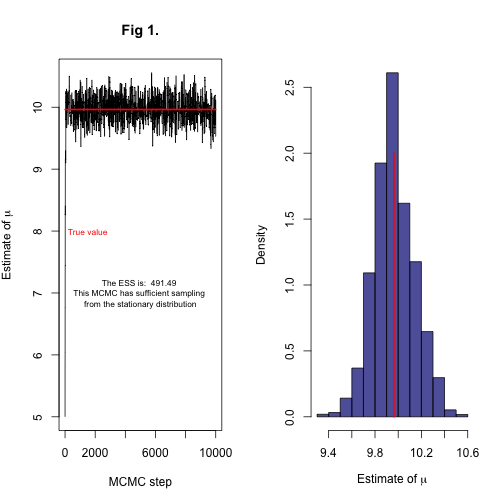
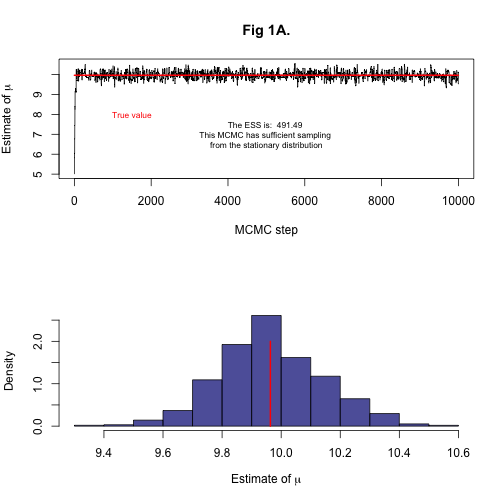
update readme

diff --git a/Readme.md b/Readme.md
@@ -137,10 +137,9 @@ Plot some diagnostics of *Example 1*
 
 ```r
 rem_burnin <- 100:nrow(ch1)
-par(mfrow = c(2, 2))
-
+par(mfrow = c(2, 1))
 plot(ch1[, 1], type = "l", xlab = "MCMC step", ylab = expression(paste("Estimate of ", 
-    mu)), main = "Fig 1.")
+    mu)), main = "Fig 1A.")
 lines(x = 1:10000, y = rep(mean(x), 10000), col = "red", lwd = 2)
 text(5000, 7, labels = paste("The ESS is: ", round(effectiveSize(mcmc(ch1[, 
     1])), 2), "\nThis MCMC has sufficient sampling \nfrom the stationary distribution"), 
@@ -150,9 +149,15 @@ text(1500, 8, labels = "True value", col = "red", cex = 0.7)
 hist(ch1[rem_burnin, 1], col = rgb(0, 0, 0.5, 0.7), xlab = expression(paste("Estimate of ", 
     mu)), main = "", freq = F)
 lines(x = c(mean(x), mean(x)), y = c(0, 2), col = "red", lwd = 2)
+```
 
+![plot of chunk unnamed-chunk-10](figure/unnamed-chunk-101.png) 
+
+```r
+
+par(mfrow = c(2, 1))
 plot(ch1[, 2], type = "l", xlab = "MCMC step", ylab = expression(paste("Estimate of ", 
-    sigma)), main = "")
+    sigma)), main = "Fig 1B.")
 lines(x = 1:10000, y = rep(sd(x), 10000), col = "red", lwd = 2)
 
 text(5000, 3.5, labels = paste("The ESS is: ", round(effectiveSize(mcmc(ch1[, 
@@ -164,7 +169,7 @@ hist(ch1[rem_burnin, 2], col = rgb(0, 0, 0.5, 0.7), xlab = expression(paste("Est
 lines(x = c(sd(x), sd(x)), y = c(0, 2), col = "red", lwd = 2)
 ```
 
-![plot of chunk unnamed-chunk-10](figure/unnamed-chunk-10.png) 
+![plot of chunk unnamed-chunk-10](figure/unnamed-chunk-102.png) 
 
 This is an ideal run. The MCMC has converged to the stationary distribution, there is low autocorrelation for MCMC samples, the parameter estimates appear accurate and precise, and we have ESS > 200. Importantly, the true value is contained within the parameter estimates (this is unknown in real data sets).
 
@@ -187,24 +192,42 @@ Run the MCMC and plot the run.
 ch2 <- mcmc_bayesian(startvals = c(1, 3), iterations = 10000)
 ```
 
-```
+
+```r
+par(mfrow = c(2, 1))
 rem_burnin <- 100:nrow(ch2)
-plot(ch2[, 1], type = "l", xlab = "MCMC step", ylab = expression(paste("Estimate of ", mu)), main = "Fig 2.")
-lines(x = 1:10000,y = rep(mean(x), 10000), col = "red", lwd = 2) 
-text(5000, 4, labels = paste("The ESS is: ", round(effectiveSize(mcmc(ch2[, 1])), 2), "\nLow mixing: Increase ESS by \nrunning a longer chain\n and/or increasing sampling frequency"), cex = 0.7)
+plot(ch2[, 1], type = "l", xlab = "MCMC step", ylab = expression(paste("Estimate of ", 
+    mu)), main = "Fig 2A.")
+lines(x = 1:10000, y = rep(mean(x), 10000), col = "red", lwd = 2)
+text(5000, 4, labels = paste("The ESS is: ", round(effectiveSize(mcmc(ch2[, 
+    1])), 2), "\nLow mixing: Increase ESS by \nrunning a longer chain\n and/or increasing sampling frequency"), 
+    cex = 0.7)
 text(1500, 8, labels = "True value", col = "red", cex = 0.7)
 
-hist(ch2[rem_burnin, 1], col = rgb(0, 0, 0.5, 0.7), xlab = expression(paste("Estimate of ", mu)), main = "", freq = F)
+hist(ch2[rem_burnin, 1], col = rgb(0, 0, 0.5, 0.7), xlab = expression(paste("Estimate of ", 
+    mu)), main = "", freq = F)
 lines(x = c(mean(x), mean(x)), y = c(0, 4), col = "red", lwd = 2)
+```
 
-plot(ch2[, 2], type = "l", xlab = "MCMC step", ylab = expression(paste("Estimate of ", sigma)), main = "")
-lines(x = 1:10000,y = rep(sd(x), 10000), col = "red", lwd = 2) 
+![plot of chunk unnamed-chunk-13](figure/unnamed-chunk-131.png) 
 
-text(5000, 3.5, labels = paste("The ESS is: ", round(effectiveSize(mcmc(ch2[, 2])), 2)), cex = 0.7)
+```r
 
-hist(ch2[rem_burnin, 2], col = rgb(0, 0, 0.5, 0.7), xlab = expression(paste("Estimate of ", sigma)), main = "", freq = F)
+par(mfrow = c(2, 1))
+plot(ch2[, 2], type = "l", xlab = "MCMC step", ylab = expression(paste("Estimate of ", 
+    sigma)), main = "Fig 2B.")
+lines(x = 1:10000, y = rep(sd(x), 10000), col = "red", lwd = 2)
+
+text(5000, 3.5, labels = paste("The ESS is: ", round(effectiveSize(mcmc(ch2[, 
+    2])), 2)), cex = 0.7)
+
+hist(ch2[rem_burnin, 2], col = rgb(0, 0, 0.5, 0.7), xlab = expression(paste("Estimate of ", 
+    sigma)), main = "", freq = F)
 lines(x = c(sd(x), sd(x)), y = c(0, 4), col = "red", lwd = 2)
 ```
+
+![plot of chunk unnamed-chunk-13](figure/unnamed-chunk-132.png) 
+
 It appears that the MCMC has reached the stationary distribution, but it is not moving eficiently around the parameter space, resulting in low ESS. This can be easily solved by increasing the chain length. An other solution is to increase the sampling frequency for analyses where this can be modified.
 
 
@@ -229,47 +252,39 @@ ch3 <- mcmc_bayesian(startvals = c(5, 3), iterations = 10000)
 Produce similar plots to those of the previous examples:
 
 ```r
+par(mfrow = c(2, 1))
 rem_burnin <- 100:nrow(ch3)
 plot(ch3[, 1], type = "l", xlab = "MCMC step", ylab = expression(paste("Estimate of ", 
-    mu)), main = "Fig 3.")
+    mu)), main = "Fig 3A.")
 lines(x = 1:10000, y = rep(mean(x), 10000), col = "red", lwd = 2)
 text(6500, 7, labels = paste("The ESS is: ", round(effectiveSize(mcmc(ch3[, 
     1])), 2), "\nHigh autocorrelation:\n Increase ESS by reducing \nsampling frequency AND \nincreasing chain length"), 
     cex = 0.7)
 text(1500, 8, labels = "True value", col = "red", cex = 0.7)
-```
-
-![plot of chunk unnamed-chunk-15](figure/unnamed-chunk-151.png) 
-
-```r
 
 hist(ch3[rem_burnin, 1], col = rgb(0, 0, 0.5, 0.7), xlab = expression(paste("Estimate of ", 
     mu)), main = "", freq = F)
 lines(x = c(mean(x), mean(x)), y = c(0, 4), col = "red", lwd = 2)
 ```
 
-![plot of chunk unnamed-chunk-15](figure/unnamed-chunk-152.png) 
+![plot of chunk unnamed-chunk-16](figure/unnamed-chunk-161.png) 
 
 ```r
 
+par(mfrow = c(2, 1))
 plot(ch3[, 2], type = "l", xlab = "MCMC step", ylab = expression(paste("Estimate of ", 
-    sigma)), main = "")
+    sigma)), main = "Fig 3B.")
 lines(x = 1:10000, y = rep(sd(x), 10000), col = "red", lwd = 2)
 
 text(7000, 4, labels = paste("The ESS is: ", round(effectiveSize(mcmc(ch3[, 
     2])), 2)), cex = 0.7)
-```
-
-![plot of chunk unnamed-chunk-15](figure/unnamed-chunk-153.png) 
-
-```r
 
 hist(ch3[rem_burnin, 2], col = rgb(0, 0, 0.5, 0.7), xlab = expression(paste("Estimate of ", 
     sigma)), main = "", freq = F)
 lines(x = c(sd(x), sd(x)), y = c(0, 4), col = "red", lwd = 2)
 ```
 
-![plot of chunk unnamed-chunk-15](figure/unnamed-chunk-154.png) 
+![plot of chunk unnamed-chunk-16](figure/unnamed-chunk-162.png) 
 
 
 The MCMC is moving frequently around the parameter space, but these moves are ineffient in that they do not find the stationary distribution. There is a high level of autocorrelation between steps, resulting in low ESS. As in *Example 2*, the solution is to increase the MCMC chain length, but in this case it is also useful to reduce the sampling frequency to avoid very large output files.
